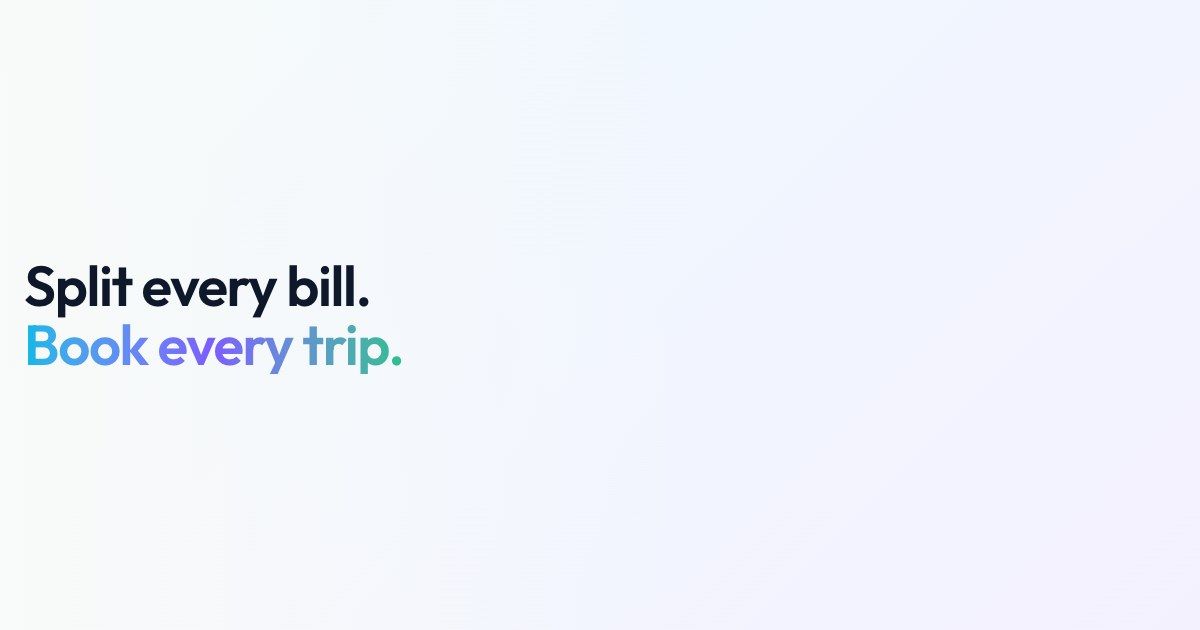
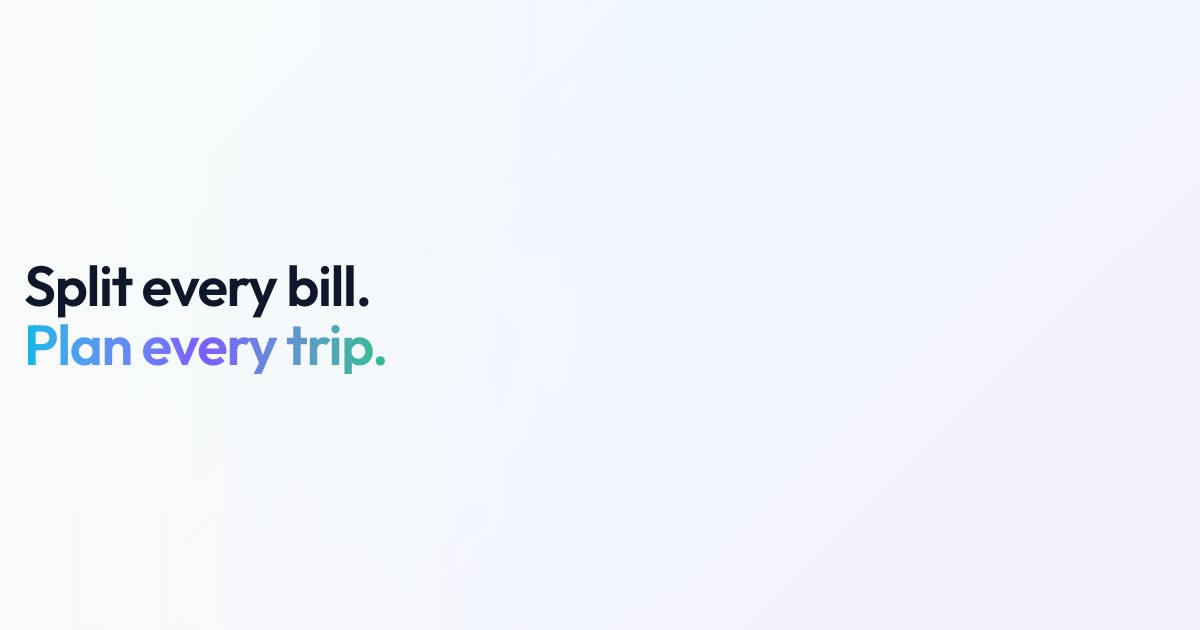
Show UK visitors the app in pounds, and say Plan every trip
Claude-Session: https://claude.ai/code/session_017DWPe5DxJM1Fdwi29oW4zt

Changed region(s): [[0.0308, 0.5127, 0.3392, 0.6032]]

diff --git a/components/home/journey.tsx b/components/home/journey.tsx
@@ -272,7 +272,7 @@ export function Journey() {
           <div className="max-w-[35rem]">
             <h1 className={`${headline} text-[clamp(2.6rem,4.7vw,4.3rem)] leading-[1.05]`}>
               <span className="block">Split every bill.</span>
-              <span className="pg-open-late block w-fit bg-gradient-to-r from-[#00B8E6] via-[#7C5CFF] to-[#2CBF8E] bg-clip-text text-transparent">Book every trip.</span>
+              <span className="pg-open-late block w-fit bg-gradient-to-r from-[#00B8E6] via-[#7C5CFF] to-[#2CBF8E] bg-clip-text text-transparent">Plan every trip.</span>
             </h1>
             <p className={`${body} pg-open-later lg:max-w-[25rem]`}>One app for the money you share and the trips you take together, from today&apos;s dinner to the holiday you keep talking about.</p>
             <div className="pg-open-later mt-8 flex flex-wrap items-center gap-3">

diff --git a/lib/universe/scene.ts b/lib/universe/scene.ts
@@ -741,7 +741,7 @@ export class MoneyUniverse {
     const loader = new THREE.TextureLoader()
     ;["chat", "settle", "spending"].forEach((name, i) => {
       const material = new THREE.MeshBasicMaterial({ color: "#F4F8F7", transparent: true, opacity: 0, toneMapped: false, depthWrite: false })
-      loader.load(`/app-screens/${name}.webp`, (texture) => {
+      loader.load(`/app-screens/${name}${this.money.symbol === "₹" ? "" : "-uk"}.webp`, (texture) => {
         texture.colorSpace = THREE.SRGBColorSpace
         texture.anisotropy = 8
         material.map = texture

diff --git a/tests/e2e/landing.spec.ts b/tests/e2e/landing.spec.ts
@@ -141,7 +141,7 @@ test("cookie banner can be dismissed and persists declined consent", async ({ pa
 test("the home page says what is live and sends people to the app", async ({ page }) => {
   await page.goto("/")
 
-  await expect(page.getByRole("heading", { level: 1 })).toContainText("Book every trip")
+  await expect(page.getByRole("heading", { level: 1 })).toContainText("Plan every trip")
   await expect(page.getByRole("link", { name: "Open PayaGo" }).first()).toHaveAttribute("href", "https://app.payago.in")
 })
 

diff --git a/app/layout.tsx b/app/layout.tsx
@@ -9,7 +9,7 @@ import { AnalyticsLoader } from "@/components/analytics-loader"
 
 const siteUrl = "https://payago.in"
 const siteName = "PayaGo"
-const defaultTitle = "PayaGo: split every bill, book every trip"
+const defaultTitle = "PayaGo: split every bill, plan every trip"
 const defaultDescription =
   "Split bills in a group chat and track your own money today. Shared cards and end-to-end AI trips are coming next."
 const defaultOgImage = "/og/home.jpg"

diff --git a/app/page.tsx b/app/page.tsx
@@ -2,7 +2,7 @@ import type { Metadata } from "next"
 
 import { HomePage } from "@/components/home/home-page"
 
-const title = "PayaGo: split every bill, book every trip"
+const title = "PayaGo: split every bill, plan every trip"
 const description =
   "Split bills in a group chat and track your own money today. Shared cards and end-to-end AI trips are coming next."
 
